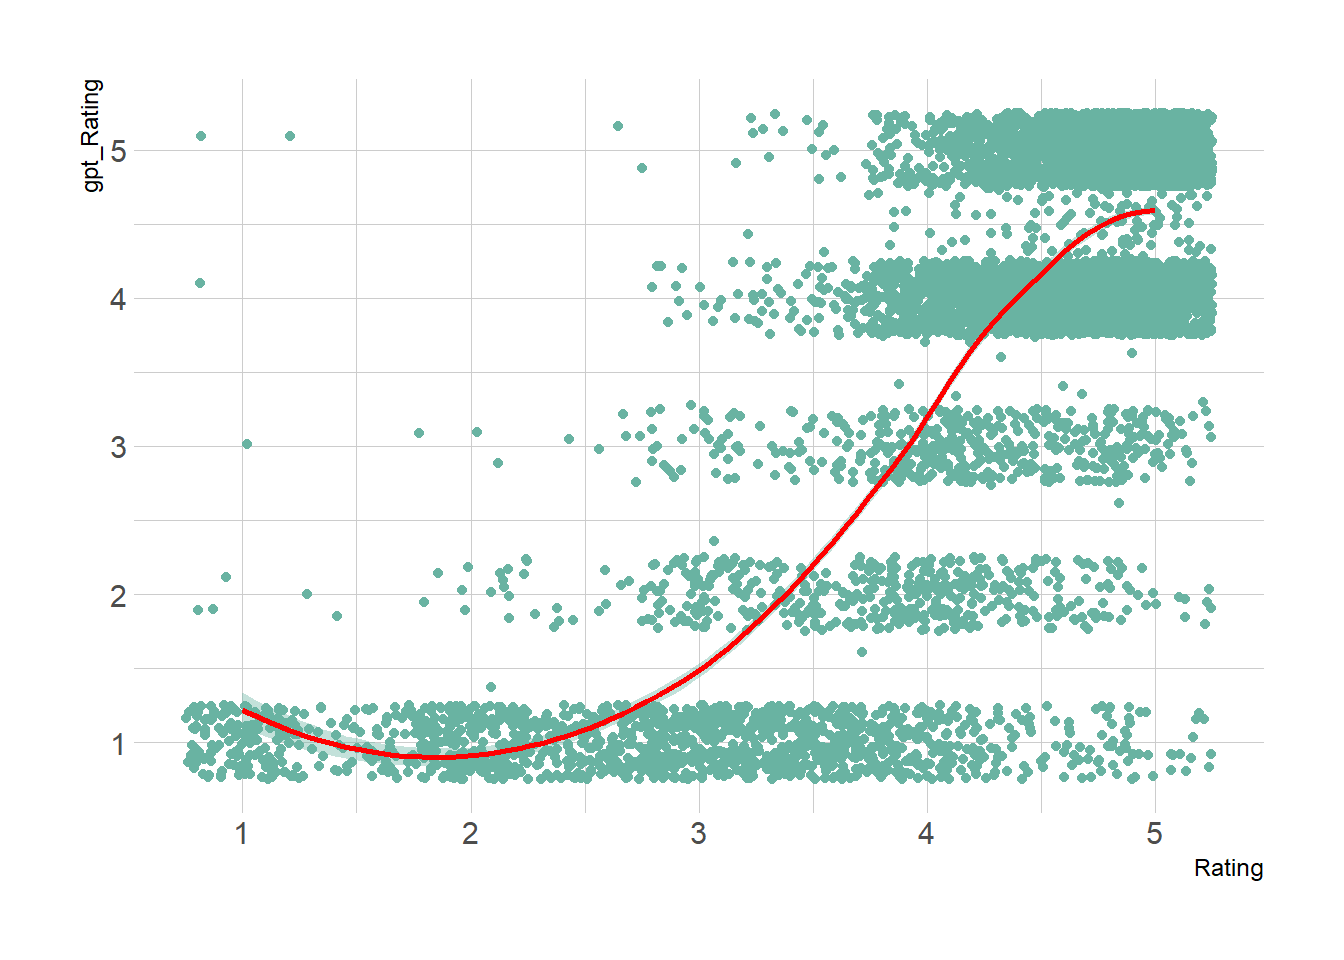
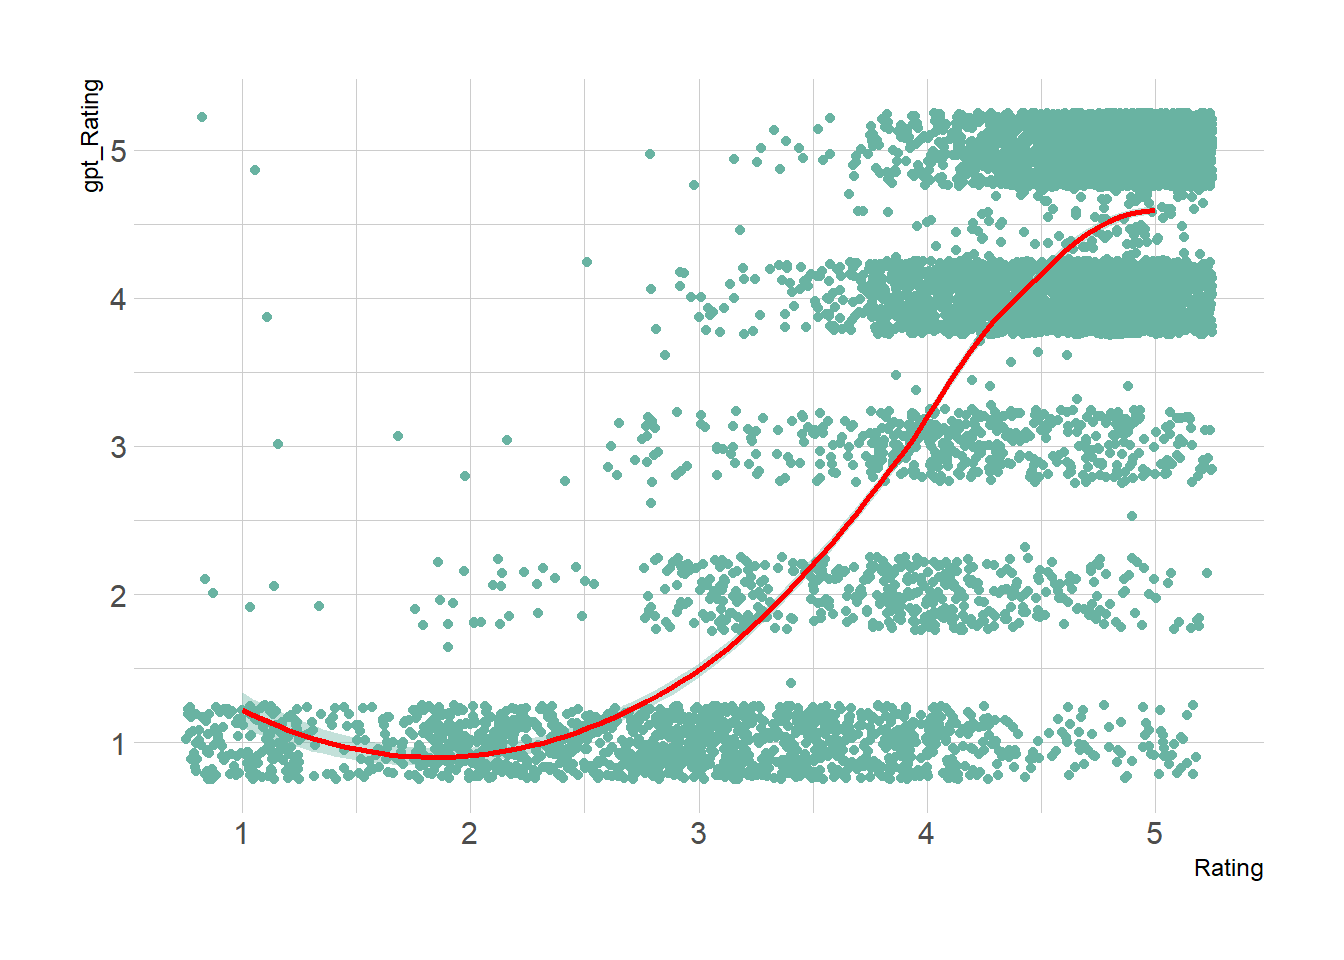
updates

diff --git a/docs/llm-assisted-text-analysis.html b/docs/llm-assisted-text-analysis.html
@@ -312,29 +312,29 @@ $ country       &lt;chr&gt; "American", "American", "American", "American", "Ame
 </thead>
 <tbody>
 <tr class="odd">
-<td style="text-align: left;">buick</td>
-<td style="text-align: left;">Air conditioning</td>
-<td style="text-align: left;">The air conditioning just went on me. It actually works but it will not blow out of the top vents. It blows out of the bottom and through the defrost areas. Was told by a dealer that it'll cost me over $3000 to repair it because of where the vent is located. Has anyone else had this problem?</td>
+<td style="text-align: left;">ford</td>
+<td style="text-align: left;">Fun to drive</td>
+<td style="text-align: left;">I have been very happy with the drivability and gas economy. I'm having a great time driving this car and it makes my trips to work enjoyable. I'm comfortable in the car and feel very safe.</td>
+</tr>
+<tr class="even">
+<td style="text-align: left;">honda</td>
+<td style="text-align: left;">What happened to Honda reliability?</td>
+<td style="text-align: left;">Please do research on the valve/cylinder head failures that plague the 1997-2001 CRV. Mine burned a valve at 123k miles. This is a prevalent issue that will literally cost thousands of dollars to replace. If I would have known this I would have never bought this truck.</td>
+</tr>
+<tr class="odd">
+<td style="text-align: left;">toyota</td>
+<td style="text-align: left;">Great car</td>
+<td style="text-align: left;">Solid and reliable car. Comfort is exceptional. Just returned from vacation, driving 18 hours straight with 5 people. Rear seat comfort is as good as front. Averaged 30 mpg.</td>
 </tr>
 <tr class="even">
 <td style="text-align: left;">mazda</td>
-<td style="text-align: left;">Great second car</td>
-<td style="text-align: left;">I've loved this car for almost 10 years, but hated also at times when I couldn't even fit my carry on bag in the trunk. Overall very reliable and good miles per gallon.</td>
+<td style="text-align: left;">WOW! This is fun to drive!</td>
+<td style="text-align: left;">This is fun to drive. I'm not sure I would be comfortable driving on a long road trip but the vehicle is fun driving around town. I find myself accelerating into turns and braking hard. The performance is unbelievable. This is a homerun and the price is reasonable.</td>
 </tr>
 <tr class="odd">
-<td style="text-align: left;">lincoln</td>
-<td style="text-align: left;">Aviator</td>
-<td style="text-align: left;">The convenience of a luxury SUV with the performance of a Cobra. Lots of style and comfort. Enjoyable to drive on long trips with the climate controlled seats and power adjustments.</td>
-</tr>
-<tr class="even">
-<td style="text-align: left;">dodge</td>
-<td style="text-align: left;">love my dakota</td>
-<td style="text-align: left;">This truck has preformed great from the day I drove it off the lot. Have not had one bit of trouble. I do not have the limit -slip rear end, I know people who do and they have lots of trouble with there Dakota.</td>
-</tr>
-<tr class="odd">
-<td style="text-align: left;">porsche</td>
-<td style="text-align: left;">Fun to Drive</td>
-<td style="text-align: left;">There is nothing better for a car lover than red, lots of power, no top and no back seat. I can't help but smile when driving this car. This was worth every cent.</td>
+<td style="text-align: left;">chrysler</td>
+<td style="text-align: left;">2000 Voyager</td>
+<td style="text-align: left;">The 2000 Voyager has proven to be very reliable. The ability to remove both back benches has been very handy when moving or purchasing odd shaped items. Special slots on the back bench keeps grocery bags (plastic) from falling over. Almost 5 years later and I am still pleased with my purchase.</td>
 </tr>
 </tbody>
 </table>
@@ -360,10 +360,11 @@ Note: for first time, need to add your open_api_ai key as an environmental varia
 <span id="cb4-8"><a href="#cb4-8" aria-hidden="true" tabindex="-1"></a><span class="co"># confirm chat is connected to API</span></span>
 <span id="cb4-9"><a href="#cb4-9" aria-hidden="true" tabindex="-1"></a>chat<span class="sc">$</span><span class="fu">chat</span>(<span class="st">"Is R a functional programming language?"</span>)</span></code><button title="Copy to Clipboard" class="code-copy-button"><i class="bi"></i></button></pre></div>
 <div class="cell-output cell-output-stdout">
-<pre><code>Yes, R is considered a functional programming language, although it also 
-supports other paradigms like procedural and object-oriented programming. In R,
-functions are first-class objects, meaning they can be passed as arguments, 
-returned from other functions, and assigned to variables.</code></pre>
+<pre><code>Yes, R supports functional programming paradigms. It allows functions to be 
+treated as first-class citizens, enabling you to pass them as arguments, return
+them from other functions, and assign them to variables. However, R is 
+multi-paradigm, meaning it also supports procedural and object-oriented 
+programming.</code></pre>
 </div>
 </div>
 <p>Define the prompts that will be used to code the data:</p>
@@ -393,7 +394,7 @@ returned from other functions, and assigned to variables.</code></pre>
 <span id="cb6-23"><a href="#cb6-23" aria-hidden="true" tabindex="-1"></a></span>
 <span id="cb6-24"><a href="#cb6-24" aria-hidden="true" tabindex="-1"></a>text</span></code><button title="Copy to Clipboard" class="code-copy-button"><i class="bi"></i></button></pre></div>
 <div class="cell-output cell-output-stdout">
-<pre><code>[1] "I bought this car in Nov of 2004 with about 42K miles.  I come to find out that I am the third owner! At approx 60K miles, the transmission went bad and it will require $3200 in repairs.  Thank God I bought an extended warranty. Another complaint I have is headroom-- there is none.  I'm constantly banging my head against the ceiling when I check my mirrors to go in reverse (and I'm only 5-9).  The stereo is pretty cool but it had to be replaced by Honda (they did it for free) because the whole display went black one day.  So far, this car has been high maintainence but it is a fun ride.  I'm hoping I won't continue to have problems with it.  My '95 Accord lasted 185K miles."</code></pre>
+<pre><code>[1] "It's only been two months for us, but aside from the dismal gas mileage, this vehicle has been all we hoped it would be. There is an annoying click, or, slight hitch in the driver and passenger power windows as they go down. Not sure if that is common to other Armada's. A bi-fold thrid row seat would be prefferable to the current 'all-up' or 'all-down.' It would just give you more seating and cargo options. If I had to guess, I'd bet that Nissan corrects this for future models. But its eye-catching good looks and thoughful features like a power liftgate, rear sonar, mud lights, and fold-flat 2nd &amp; 3rd row seats have made it very nice. Oh, did I mention the power? Wow..."</code></pre>
 </div>
 <div class="sourceCode cell-code" id="cb8"><pre class="sourceCode r code-with-copy"><code class="sourceCode r"><span id="cb8-1"><a href="#cb8-1" aria-hidden="true" tabindex="-1"></a>chat <span class="ot">&lt;-</span> <span class="fu">chat_openai</span>()</span></code><button title="Copy to Clipboard" class="code-copy-button"><i class="bi"></i></button></pre></div>
 <div class="cell-output cell-output-stderr">
@@ -403,14 +404,14 @@ returned from other functions, and assigned to variables.</code></pre>
 <span id="cb10-2"><a href="#cb10-2" aria-hidden="true" tabindex="-1"></a><span class="fu">str</span>(coded.review)</span></code><button title="Copy to Clipboard" class="code-copy-button"><i class="bi"></i></button></pre></div>
 <div class="cell-output cell-output-stdout">
 <pre><code>List of 9
- $ sentiment      : chr "neutral"
- $ gpt_Rating     : num 3
- $ reliability    : int 1
- $ utility        : int 0
+ $ sentiment      : chr "positive"
+ $ gpt_Rating     : int 4
+ $ reliability    : int 0
+ $ utility        : int 1
  $ driving        : int 1
  $ comfort        : int 0
  $ interior       : int 1
- $ fuel_efficiency: int 0
+ $ fuel_efficiency: int 1
  $ technology     : int 1</code></pre>
 </div>
 </div>
